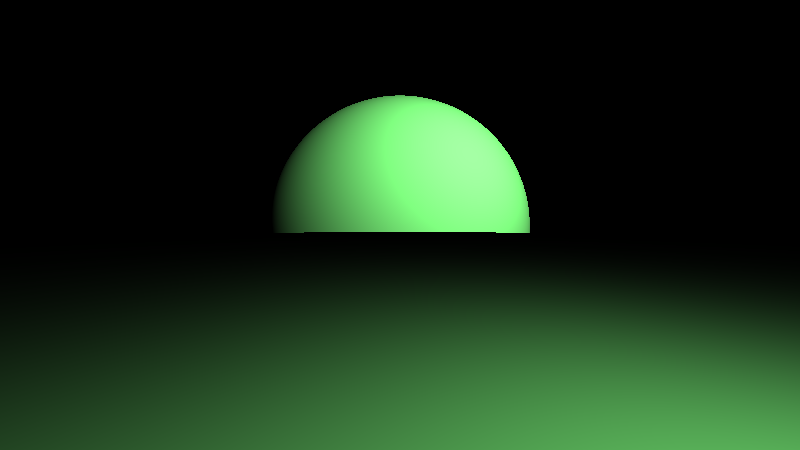
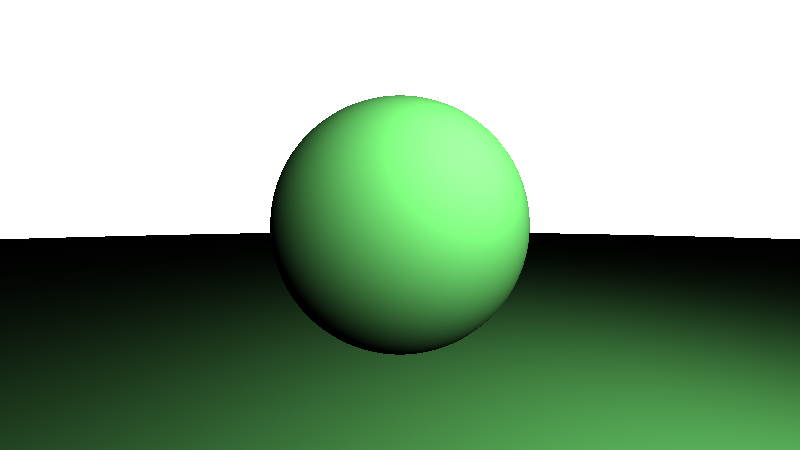
Multiple objects working

diff --git a/main.py b/main.py
@@ -4,7 +4,12 @@ import numpy as np
 from vector import *
 import cv2
 from tqdm import tqdm
-    
+
+def backgroundcolor(ray_dir):
+    t = 0.5 * (ray_dir[2] + 1.0)
+    return (1-t)*Vec3(1.0, 1.0, 1.0) + t*Vec3(0.5, 0.7, 1.0)
+
+
 def ray_color(ray: Ray, sphere: Sphere):
     t = sphere.hit(ray)
     if t > 0:
@@ -29,6 +34,8 @@ def radiance(light_point, hit_point, light_power):
     # else:
     #     return Vec3(0.0, 0.0, 0.0), Vec3(0.0, 0.0, 0.0)
 
+def hit_world(world):
+    pass
 EPSILON = 1e-4
 
 if __name__ == '__main__':
@@ -52,13 +59,13 @@ if __name__ == '__main__':
     # focal_length = 1.0
     
     image = torch.zeros(img_height, img_width, 3)#.to(device)
+    world = World()
+    
     s1 = Sphere(Vec3(0, 0, -1), 0.5)
-    
-    # front_wall = Box(Vec3(-0.10,-0.10,-0.10), Vec3(5.65,5.65,0.0))
-    # left_wall = Box(Vec3(-0.10,-0.1,0.0), Vec3(0.0,5.55,5.55))
-    
-    # left_wall = Box(Vec3(0.0, 0.0, 1.0), Vec3(1.0, 1.0, 2.0))
     floor = Sphere(Vec3(0.0, -1000 -0.5, -1.0), 1000)
+    
+    world.add_object(s1)
+    world.add_object(floor)
     
     # Point light
     light_position = Vec3(0.7, 0.7, 0.7)
@@ -70,36 +77,34 @@ if __name__ == '__main__':
             u = i / (img_width - 1)
             v = 1.0 - j / (img_height - 1)
             ray = Ray(origin, lower_left_corner + u*horizontal + v*vertical - origin)
-            
-            # # Check for intersections with objects in the scene
-            # closest_t = float('inf')  # Initialize to positive infinity
-            # closest_obj = None
         
-            for obj in [s1, floor]:
-                # record = HitRecord(0.0, Vec3(0.0, 0.0, 0.0), Vec3(0.0, 0.0, 0.0))
-                # t = obj.hit(ray)
-                hit, record = obj.hit(ray)
-                # print(hit)
-                if hit:
-                    # hit_point = ray.at(record.t)
-                    hit_point = record.hit_point
-                    # print(light_position, hit_point)
-                    # print(torch.sum(hit_point - light_position))
-                    if abs(torch.sum(hit_point - light_position)) <= EPSILON:
-                        # print(hit_point, light_position)
-                        r = record.t
-                        pixel_color = light_power / r**2
-                    else:
-                        # normal = obj.normal_at_point(hit_point)
-                        normal = record.normal
-                        
-                        # Phong Metrial model
-                        pixel_color = torch.zeros(3)
-                        # v = unit_vector(origin - hit_point)
-                        L, l = radiance(light_position, hit_point, light_power)
-                        m_dif = Vec3(0.5, 0.5, 0.5)
-                        pixel_color += m_dif * L * max(0, dot(normal, l))
-                        
-                    image[j, i] = torch.tensor([pixel_color[0], pixel_color[1], pixel_color[2]]) * 255.999
+            hit_anything, record = world.hit(ray)
+            # for obj in [s1, floor]:
+            # record = HitRecord(0.0, Vec3(0.0, 0.0, 0.0), Vec3(0.0, 0.0, 0.0))
+            # t = obj.hit(ray)
+            # hit, record = obj.hit(ray)
+            # print(hit)
+            if hit_anything:
+                # hit_point = ray.at(record.t)
+                hit_point = record.hit_point
+                # print(light_position, hit_point)
+                # print(torch.sum(hit_point - light_position))
+                if abs(torch.sum(hit_point - light_position)) <= EPSILON:
+                    # print(hit_point, light_position)
+                    r = record.t
+                    pixel_color = light_power / r**2
+                else:
+                    # normal = obj.normal_at_point(hit_point)
+                    normal = record.normal
+                    
+                    # Phong Metrial model
+                    pixel_color = torch.zeros(3)
+                    # v = unit_vector(origin - hit_point)
+                    L, l = radiance(light_position, hit_point, light_power)
+                    m_dif = Vec3(0.5, 0.5, 0.5)
+                    pixel_color += m_dif * L * max(0, dot(normal, l))
+            else:
+                pixel_color = backgroundcolor(ray.direction)
+            image[j, i] = torch.tensor([pixel_color[0], pixel_color[1], pixel_color[2]]) * 255.999
     
     cv2.imwrite('output.png', image.numpy()[:, :, ::-1])

diff --git a/vector.py b/vector.py
@@ -21,6 +21,29 @@ def cross(v1, v2):
 def unit_vector(v):
     return v / norm(v)
 
+class World:
+    def __init__(self):
+        self.objects = []
+    
+    def add_object(self, obj):
+        self.objects.append(obj)
+        
+    def hit(self, ray, t_min=0.0, t_max=float('inf')):
+        hit_record = HitRecord(0.0, Vec3(0.0, 0.0, 0.0), Vec3(0.0, 0.0, 0.0))
+        hit_anything = False
+        closest_so_far = t_max
+        for obj in self.objects:
+            hit, record = obj.hit(ray, t_min, closest_so_far)
+            if hit:
+                hit_anything = True
+                closest_so_far = record.t
+                # ver se vai precisar copiar coordenada a coordenada
+                hit_record.t = record.t
+                hit_record.hit_point = record.hit_point
+                hit_record.normal = record.normal
+                # hit_record = record
+        return hit_anything, hit_record
+    
 class Ray:
     def __init__(self, origin: torch.float, direction: torch.float):
         self.origin = origin
